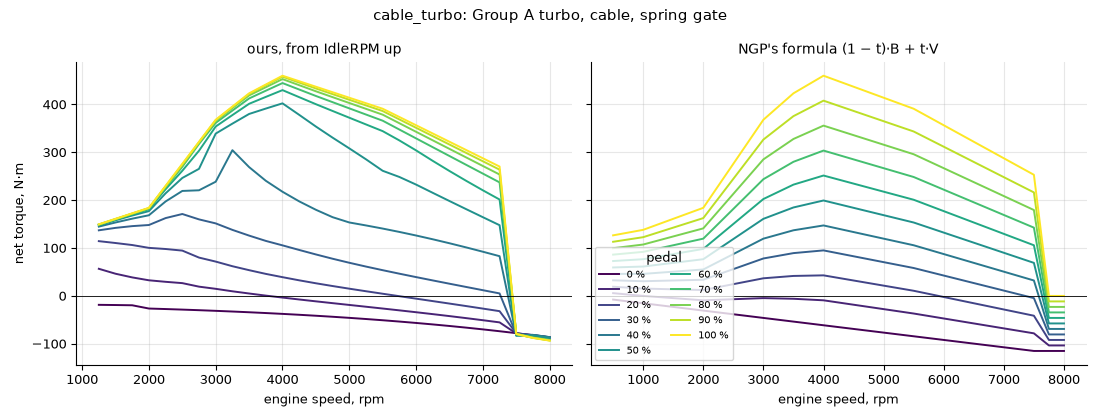
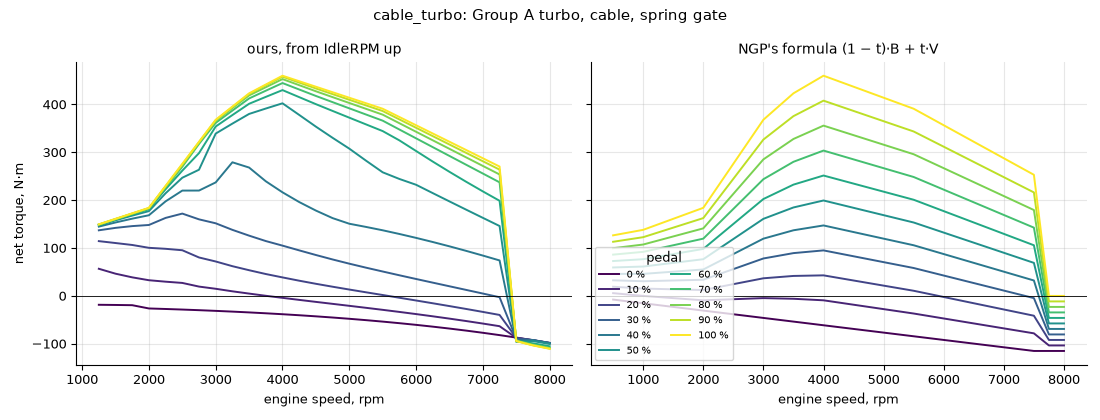
Engine docs: cite Sandoval, Patton, Heywood, Guzzella and Marelli; the new scorecard rows; regenerated figures

diff --git a/notes/engine-model.md b/notes/engine-model.md
@@ -46,17 +46,21 @@ the doc comments. Each line gives its evidence: a source (list at the end), or "
   [Andersson] the Ψ); Ψ linear from Π 0.98 to 1 (inferred:
   a finite slope near equal pressures).
 - Plate area 1 − cos θ/cos 7°, θ = 7° + 83°·lift [US 6591667]. Its flow bench gives C_D 0.70–0.77 at 0–25° from
-  closed and a leak of about 5 mm² (60 mm bore); C_D 0.8 and no leak about cancel at light pedal.
+  closed and a leak of about 5 mm² (60 mm bore); C_D 0.8 and no leak about cancel at light pedal. [Guzzella] App. B's
+  2.8 L V6 uses the same form (α0 7.9°, 58.7 mm) with a 5.3 mm² leak.
 - Torque from MAP at part load checked against [EPA Ford 1.6]: the 2013 1.6 EcoBoost makes 27 % of its 100 kPa torque
   at 50 kPa and none at 24–26 kPa (2500 rpm); the na sample 28 % at 47 kPa.
 - C_D 0.80 one throttle (inferred: fits are about 0.8 at WOT [C_D estimation]); 0.85 per cylinder (guess); at least
   45 mm per cylinder (guess).
 - Manifold 0.8·V_d one throttle, 0.3·V_d per cylinder, 1.0·V_d turbo, boost pipe 2.0·V_d (guess: ITBs have only
-  their runners after the plate (inferred); Rally2 caps the restrictor-to-plate volume at 20 L [FIA 261]).
+  their runners after the plate (inferred); Rally2 caps the restrictor-to-plate volume at 20 L [FIA 261]). [Guzzella]
+  App. B's 2.8 L V6 has 5.8 L (2.1·V_d) and a measured τ of about 0.45 s at 1000 rpm, about 2.5× ours (Open).
 - W_cyl = η_v·η_res·p·V_d·n/(120RT) and the manifold filling dp/dt = RT/V·(W_in − W_cyl) (generic) [Andersson],
   [Hendricks]. Fully implicit Euler, root-solved per sub-step (inferred: the linearly implicit step overshot a
   per-cylinder tip-in to 2.4 bar).
-- η_v: turbo 0.95 flat (guess); NA the WOT table's shape (inferred: the table is mostly breathing).
+- η_v: turbo 0.95 flat (guess); NA the WOT table's shape, peak 1 (inferred: the table is mostly breathing), then raised
+  where K would top the fuel–air cycle (Torque). Road NA engines peak at 0.87–0.88 [Heywood] fig. 6-8; the installed
+  NA cars now peak at 1.12–1.19, the two S2000s at 1.25–1.27.
 - Residual gas: η_res = (r_c − (p_em/p_im)^(1/γ))/(r_c − 1), the ideal cycle's (generic, Heywood; the pressure
   factor of [arXiv 2012.02859]'s η_v), r_c 11 NA, 9.5 turbo, γ 1.3 (guess: the residual is exhaust; 1.4 for air),
   p_em of the last step. 1 at p_em = p_im; at idle 0.71 (modern turbos) to 0.87. In W_cyl and the charge; K
@@ -95,7 +99,14 @@ the doc comments. Each line gives its evidence: a source (list at the end), or "
 - K from the identity K = 4π(T_wot + friction + pumping)/charge, so steady WOT reproduces the table exactly
   (inferred). K is calibrated on a 250 rpm grid and every knot, from a fresh engine's tip-in (inferred: a turbo's
   steady boost depends on the path near its threshold).
-- η_ign = max(0, 1 − 2.8e-4·Δθ²): about 1 % at 6° from MBT [MIT 2.61], quadratic [US 6363317].
+- An NA engine's K is at most the fuel–air cycle's work per kg of air: 0.400 at r_c 9.5 and 0.419 at 11 at φ 1.136
+  [Heywood] fig. 5-9, × LHV/(AFR·λ), 1.34 and 1.41 MJ/kg. Real engines reach about 0.8 of the cycle (pp. 194–196),
+  the road turbos' maps 0.32–0.39 on the fuel at λ 0.88 [EPA], [Guzzella] figs. 2.32–2.33 about 0.34 at 4000 rpm.
+  Where the identity gives more, η_v takes the rest (`breathe`; the na sample's 0.46 at its rated speed was over the
+  ideal cycle). A turbo's K stays, 0.99–1.33 of the ceiling on the installed cars (Open).
+- η_ign = max(0, 1 − 2.8e-4·Δθ²): about 1 % at 6° from MBT [MIT 2.61], quadratic [US 6363317]. [Guzzella] eq. 2.116
+  and fig. 2.34: 1 − k_ζ·Δζ², k_ζ 2.4–3.3e-4 within ±15°; [Heywood] fig. 15-3b, 1/bsfc at constant load: 0.990,
+  0.973, 0.945 and 0.917 at 5, 10, 15 and 20° (ours 0.993, 0.972, 0.937, 0.888). Untested past 20°.
 - λ 0.88 (guess, used at every load): [x-engineer] gives λ 0.86 for maximum power; the road 1.6 EcoBoost runs
   λ 0.95–1.00 at full load and 1.00 at part load [EPA Ford 1.6]. It enters the boost target and the exhaust's flow
   and heat, not the torque (K absorbs it). η_ig 0.38 for the boost target (weak) [Chegg]; LHV 43.4 MJ/kg, AFR 14.7
@@ -103,23 +114,39 @@ the doc comments. Each line gives its evidence: a source (list at the end), or "
 
 ## Friction and pumping (`friction.rs`)
 
-- Sandoval–Heywood FMEP terms, DOHC buckets, the default bearing ratios [Sandoval], [ESA.NET]; the worked example is
-  reproduced within 4 % (test).
+- Sandoval–Heywood FMEP, App. B [Sandoval]: DOHC buckets (Table 3), the default bearing ratios [ESA.NET], ring tension
+  and roughness ratios 1, auxiliaries eq. 14, 8.32 + 1.86e-3·N + 7.45e-7·N² kPa (refitted to SI engines; Patton's
+  diesel-fitted 6.23 + 5.22e-3·N − 1.79e-7·N² was here before: +3.4 kPa at 4000 rpm, +34 at 8000). The worked
+  example is reproduced within 4 % (test). Against its data the paper's model runs about 15 kPa over at every speed
+  (fig. 8, 3.0 L V6). Its reference oil is a 10W-30 at 10.6 cSt and 90 °C; ours is a 10W-40 (about 18 cSt) with φ 1
+  at 363 K, which leaves the model's level as published.
 - Oil: φ = √(μ(T)/μ(363 K)), Vogel μ = 0.00862·exp(2040/(T − 89.6)) mPa·s, fitted to 10W-40 [Anton Paar]. With 20 °C oil
   the model's FMEP is 1.6× warm at 1000 rpm to 2.4× at 7000 (φ 3.6 on the hydrodynamic terms); [cold friction]: up
   to 2.5× at about 20 °C (after Will et al.), and FMEP ∝ μ^n, n 0.19–0.24 for gasoline engines (1.6–1.9× for this
   oil). In game the 1.02 sim's engine runs at 358–363 K, so this rarely acts.
-- Pumping (p_em − p_im) + 0.2 bar·(p_im/p_a)·(n/n_lim)² (generic form [TAMU], [Moretto]; 0.2 bar guess in the
-  report's 0.1–0.3). NA p_em = p_a + 0.15 bar·(W/W_rated)² (guess).
+- Pumping (p_em − p_im) plus the valves' flow losses, 3.0e-3 kPa·s²/m²·S_p²/(n_v²r⁴) per set of two at an NA engine's
+  WOT [Sandoval] App. B, r from [Patton]'s four-valve survey (D_iv = 6.11 + 0.313B, D_ev = 4.14 + 0.286B mm); the
+  intake's scaled by p_im/p_a, the exhaust's by (p_im/p_a)²·p_a/p_em (inferred from Patton's Δp ∝ ṁ²/(ρA²) with the
+  density where the gas passes). About 38 kPa at 7000 rpm on a 2.0 L four; the guess before, 0.2 bar·(p_im/p_a)·
+  (n/n_lim)², gave 20. NA p_em = p_a + 0.15 bar·(W/W_rated)² (guess, a free-flowing system; [Patton]'s production
+  system, 40 kPa at 15 m/s, would give 60–100 kPa at the rally NA cars' rated speeds). At a closed pedal the vacuum
+  dominates: [Guzzella] eq. 2.107 gives 0.9 bar for a motored SI engine at closed throttle, ours 0.82–0.85 at
+  20 kPa. WOT mechanical efficiency on the NA samples 0.89 at 2000 rpm and 0.79–0.81 at rated ([Heywood] p. 49:
+  typically 0.90 and 0.75).
 - s_f: closed plate, fuel cut, steady at RPMLimit gives −BrakeCoefficient·MaxTorque, clamped 0.6–2.0 (inferred:
   NGP's one braking point; friction models need a scale [ecu-lab]). The scale is 1 + (s_f − 1)·(n/n_lim)², so s_f at
   the limit and Sandoval's own FMEP at low speed (inferred: Sandoval at s_f 1 meets the road engines' rubbing
   friction from their fuel-cut points, 0.5–0.7 bar at 2000 rpm [EPA], and NGP's NA braking line gives −1.09 bar at
   2000 on the na sample; the share over Sandoval growing with n² is ours). With one flat scale the ECU samples braked
-  1.4–1.7× the road engines below 5000 rpm.
+  1.4–1.7× the road engines below 5000 rpm. Friction from 2000 to 6000 rpm grows 2.15× and 2.66× on Sandoval's
+  3.0 L (figs. 8, 6), 2.5–2.7× with WOT pumping motored ([Heywood] eq. 13.6, [Patton] figs. 18–19): the NA samples
+  2.15–2.3, every turbo at the clamp 3.0–3.1 (Scorecard). [Guzzella] eq. 2.112's friction over Sandoval's grows as
+  n^2.1–2.3, the shape the n² scale takes (its level, 1.3× at 2000 rpm and 2.5× at 6000, is no road engine's here).
 - BrakeCoefficient is a share of MaxTorque, so it overstates braking on boosted engines: every installed turbo car
   clamps (raw 2.3–4.9), NA cars are 1.32–1.87 (`tests/rsf_cars.rs`). The clamp's 2.0 is a guess and sets the friction
-  of every installed turbo car; through the identity it also raises their K.
+  of every installed turbo car; through the identity it also raises their K. The restrictor bounds it: the Rally2's
+  214 kW at 6000 rpm through 0.183 kg/s (32 mm choked, C_D 0.95) at the fuel–air cycle's 1.34 MJ/kg leaves at most
+  3.8 bar for friction and pumping; the model has 3.25 + 1.85.
 - The rF2 SkipBarber's coast line, −21 to −53 N·m at 2000–8000 rpm [rF2 engine.ini], is near the NA samples'
   (`examples/plot.py`).
 - η_m = 1, losses explicit; friction fades to 0 within 5 rad/s of standstill (inferred: no stiction at rest).
@@ -208,7 +235,9 @@ the doc comments. Each line gives its evidence: a source (list at the end), or "
   elsewhere), 33 mm from 2010 [Impreza N2010], [FIA 254]; WRC 1.6 33 mm, 36 mm from 2017
   [FIA 255A], [World Rally Car]; Rally2 32 mm [FIA 261]. [rallycars restrictors]' 38/36/34 mm (1992/1994/1995) mixes
   Group A's 38 and 34 with Group N's 36.
-- Turbine nozzle with Ψ, η_t 0.65 (guess) [Andersson].
+- Turbine nozzle with Ψ [Andersson], η_t 0.65 with the bearing losses apart: [Marelli 2011]'s 33 mm wastegated turbine
+  averaged 0.62 over the pulse at 100 Hz with the gate closed, 0.78 in steady flow (Table 1); [Guzzella] eq. 2.52
+  gives peaks of 0.65–0.75; [Heywood] fig. 6-56b 0.82 at the best blade speed ratio, 0.5 at 0.32 and 1.0.
 - A_t is fitted so K is as flat as the turbo allows (inferred: K is the fuel's energy times the combustion's
   efficiency per kg of air, nearly constant over rpm, so the boost should carry the table's shape). It minimises the
   squared deviations of ln K at the knots and every 500 rpm from idle up, each from a fresh engine's tip-in: a scan on
@@ -250,8 +279,10 @@ the doc comments. Each line gives its evidence: a source (list at the end), or "
   events) leave the air at 300 °C (EPA's fuel-cut points at the turbine 199–422 °C), their fuel burning in the
   manifold at anti-lag's 60 %. Half the work the retard takes heats the exhaust: (1 − η_ign)·K·W_cyl·0.5 (inferred:
   EPA's Ford 1.6 and 2.7 retarded 27–44° at their lightest loads, 1000–1750 rpm, ran 70–142 K over their neighbours
-  near MBT, 0.23–0.63 of that work). Before (700 °C at 0, the anti-lag term on the retard, no motored temperature)
-  the turbo samples idled at 1035 °C and ran 707 °C under the fuel cut; now 598–661 and 301. With 400 °C an older
+  near MBT, 0.23–0.63 of that work; [Guzzella] eq. 2.153: k_e ≈ 0.5 of the heat the retard frees reaches the
+  exhaust, the rest the cooling water, a first-law approximation). Before (700 °C at 0, the anti-lag term on the
+  retard, no motored temperature) the turbo samples idled at 1035 °C and ran 707 °C under the fuel cut; now 598–661
+  and 301. With 400 °C an older
   model (no residual gas, before the retarget) gave the steady WOT boost two branches; 520 °C passes the path test.
   The shaft's spin-down after a lift without anti-lag (4500 rpm fixed, from WOT: stopped within 0.8 s) is set by the
   compressor's work and the losses, the same before and after; no measured spin-down was found.
@@ -320,8 +351,10 @@ the physics, not the calibration. "Was" is before this round (`a5ea4790`).
   14.9 at 2500, cable_turbo 9.8 / 12.7. At 90 kPa, 2500 rpm: road NA 7.8–9.3 (Chevy 2.5 7.79, Mazda 2.0 9.12, Mazda
   2.5 9.32); na 8.2, old 7.8. The table sets the torque per bar of boost: a Rally2's 432 N·m from 1620 cc is 33.5 bar
   BMEP, at least 13.4 bar per bar at the 2.5 bar abs cap [Škoda Rally2 engine], [FIA 261]; road turbos make about
-  9–10. K as an efficiency (K·AFR·λ/LHV) at 4000 rpm: road 0.36–0.44 (gross indicated, from their fuel-cut friction
-  and turbine pressure); turbo sample 0.48, Fiesta Rally2 0.48, na 0.44, old 0.41, cable_turbo 0.38.
+  9–10. K as an efficiency on the fuel at λ 0.88 (K·AFR·λ/LHV) at 4000 rpm: road 0.32–0.39 (gross indicated, from
+  their fuel-cut friction and turbine pressure: K 1.07–1.30 MJ/kg at λ 1; the band read 0.36–0.44 before, EPA's
+  efficiency at λ 1 against a key at λ 0.88), the fuel–air cycle 0.40 at r_c 9.5 and 0.42 at 11 [Heywood]; turbo
+  sample 0.48, Fiesta Rally2 0.48, na 0.42 (0.44 before the ceiling), old 0.41, cable_turbo 0.39.
 - Share of the 100 kPa torque at 50 kPa, 2500 rpm: road turbos 27 % (Honda 42 %); turbo sample 43 %, Rally2 43 %,
   cable_turbo 39 %. Zero torque at 18.5–27.2 kPa on the road engines; na 21.6, old 22.0, cable_turbo 18.5, turbo and
   Rally2 16.2–16.3 (was 20.4–25.2).
@@ -350,7 +383,14 @@ value, band and PASS / MISS / CTX; `--only REGEX`, `--json OUT`, `--compare A.js
 `class:GROUP:YEAR:restrictor_mm`; the script's docstring lists the keys. Rows: closed-pedal braking and its manifold
 pressure, cold friction, part-load torque at a manifold pressure and the zero-torque pressure, K as an efficiency,
 idle and overrun manifold pressures, exhaust temperatures, spool, bearing loss and rotor inertia, λ, restrictors by
-group and year. The Rally2 rows are the Fiesta Rally2 (`Ford_Fiesta_Rally2_ngp7`).
+group and year; friction's growth from 2000 to 6000 rpm, the motored WOT friction and pumping at 4000 rpm and its
+growth, WOT mechanical efficiency and WOT over idle air (NA: a motored turbo builds boost), the turbo shaft at idle
+(context). The Rally2 rows are the Fiesta Rally2 (`Ford_Fiesta_Rally2_ngp7`).
+
+Rounds, each on its own bands: 36 → 47/77 with the friction by rpm², the idle floor, the exhaust heat, the rotor and
+the restrictors (`a5ea4790` to `d40b242e`); then 47 → 47 with Sandoval's auxiliaries and the valves' pumping, 55/92
+with the new rows and the η_ig band on λ 0.88, 56/92 with an NA engine's K under the fuel–air cycle. By system:
+braking 5/17, friction 8/14, part load 5/15, torque 4/6, idle 9/11, exhaust 5/9, turbo 5/5, class 15/15.
 
 ## In game
 
@@ -385,11 +425,22 @@ brush (main `0ef55141`) are in `notes/tyre-model.md` ("In game").
   them too and idles at 89 rad/s with the clutch open); NGP's clutch help opens at 65 rad/s, too late. Not traced why
   it never opens with the model's engine. The Golf's stall on the climb was the brush's (fixed, `tyre-model.md`).
 - The rally turbos make almost no boost at 1000 rpm, so the [Chalmers] 1000 rpm spool case does not apply to them.
+- A turbo's K over the fuel–air cycle (0.99–1.33 of it on the installed cars; turbo sample and Rally2 0.48 at
+  4000 rpm against 0.40). Holding it at the cycle with the charge, as on NA, was tried: η_v 1.13–1.19 at 2000–4000 rpm,
+  K over it again above 5000 where the restrictor chokes, the exhaust manifold 350 → 400 kPa through the same nozzle,
+  and the spool at 2000 rpm 0.63–0.73 → 0.38–0.43 s (Chalmers 0.54–1.60). It needs the turbine sized with the charge,
+  and the friction scale (above: at the clamp the friction alone grows 3.0–3.1× from 2000 to 6000 rpm, road 2.1–2.7×,
+  and the Rally2's restrictor leaves 3.8 bar for friction and pumping at 6000, the model 5.1). Not done.
+- The turbo's shaft stops at idle (idle-shaft rows 0 rpm): the 100 W static loss outweighs the turbine there, so a
+  tip-in from idle spools from rest. [Guzzella] p. 50: at idle the speed "can fall below 10 000 rpm"; no measured idle
+  speed found.
+- Manifold volume: one throttle 0.8·V_d against [Guzzella]'s V6 at 2.1·V_d (measured τ about 2.5× ours); one engine
+  with long runners, so not changed.
 - Modern turbos idle at 16.1–16.7 kPa (Rally2, R5, WRC 2006–2020 on RSF; 20–22 before the friction followed rpm),
   under warm road idles of 22.3–28.5 kPa [EPA] and tuners' 27, 31 and 30–50 kPa [MOTOR], [Gears], [Tuning School];
   every RSF car 16.1–31.5 kPa, the NA ones 21.5–31.5 (`tests/rsf_cars.rs`). The turbo sample and the Fiesta Rally2
   make no torque at 16.2–16.3 kPa at 2500 rpm (road 18.5–27.2). Cause: the table's torque per bar of boost (K at
-  4000 rpm 0.48 as an efficiency, road 0.36–0.44) over Sandoval's friction at low speed. EPA's road K is flat with
+  4000 rpm 0.48 as an efficiency, road 0.32–0.39) over Sandoval's friction at low speed. EPA's road K is flat with
   load (Willans), so a part-load K under the WOT one has no support (proposed before, not done); race cams' overlap,
   which raises tuners' idles to 30–50 kPa, is not modelled. Not changed.
 - Closed pedal below idle at a fixed speed, N·m, before → after the anti-stall fade: turbo sample 168 → 51 at 500
@@ -445,16 +496,23 @@ brush (main `0ef55141`) are in `notes/tyre-model.md` ("In game").
 - US 6591667, plate area: https://patents.google.com/patent/US6591667
 - C_D estimation: https://www.researchgate.net/publication/224181168_Estimation_of_automotive_engine_parameters_Part_I_Discharge_coefficient_of_throttle_body
 - HPA Alpha-N (ITBs): https://www.hpacademy.com/forum/understanding-afr/show/alpha-n-20/
-- Sandoval (SAE 2003-01-0725): https://saemobilus.sae.org/papers/improved-friction-model-spark-ignition-engines-2003-01-0725
+- Sandoval & Heywood, An improved friction model for spark-ignition engines (SAE 2003-01-0725; App. B, eq. 14, figs. 6,
+  8, 9, 11): https://saemobilus.sae.org/papers/improved-friction-model-spark-ignition-engines-2003-01-0725
+- Patton, Nitschke & Heywood, Development and evaluation of a friction model for spark-ignition engines (SAE 890836;
+  p. 10 pumping and valve survey, figs. 15–19): https://doi.org/10.4271/890836
+- Heywood, Internal Combustion Engine Fundamentals (McGraw-Hill 1988; p. 49, p. 287, figs. 5-9, 6-8, 6-56b, 15-3b,
+  eq. 13.6).
+- Marelli & Capobianco 2011, steady and pulsating flow efficiency of a waste-gated turbine (Energy 36, 459–465,
+  Table 1): https://doi.org/10.1016/j.energy.2010.10.019
 - ESA.NET FrictionModel.cs (Sandoval eqs. 7.b–11): https://github.com/pangtuwi/ESA.NET/pull/223
 - ecu-lab, friction scale: https://github.com/DNiev/ecu-lab/pull/138
 - Anton Paar, oil viscosity: https://wiki.anton-paar.com/us-en/engine-oil/
 - cold friction: Roberts, Brooks & Shipway 2014, Internal combustion engine cold-start efficiency: a review, Energy
   Conversion and Management 82, doi:10.1016/j.enconman.2014.03.002 (open access):
   https://www.sciencedirect.com/science/article/pii/S0196890414001939
-- TAMU, pumping: https://oaktrust.library.tamu.edu/server/api/core/bitstreams/161c947f-2eff-48dd-8bf4-80912a8bec75/content
 - Moretto 2024, Willans: https://www.dora.lib4ri.ch/empa/dload/empa:36100/PDF/Moretto-2024-A_method_to_quantify_the-(published_version).pdf
-- Guzzella & Onder: https://link.springer.com/chapter/10.1007/978-3-642-10775-7_2
+- Guzzella & Onder, Introduction to Modeling and Control of IC Engine Systems (Springer 2010, 2nd ed.; eqs. 2.52,
+  2.107, 2.112, 2.116, 2.153, figs. 2.32–2.34, App. B): https://link.springer.com/chapter/10.1007/978-3-642-10775-7_2
 - MIT 2.61, spark: https://web.mit.edu/2.61/www/Lecture%20notes/Lec.%2009%20SI%20engine%20combustion%20I.pdf
 - US 6363317, spark quadratic: https://image-ppubs.uspto.gov/dirsearch-public/print/downloadPdf/6363317
 - x-engineer, λ: https://x-engineer.org/air-fuel-ratio/
